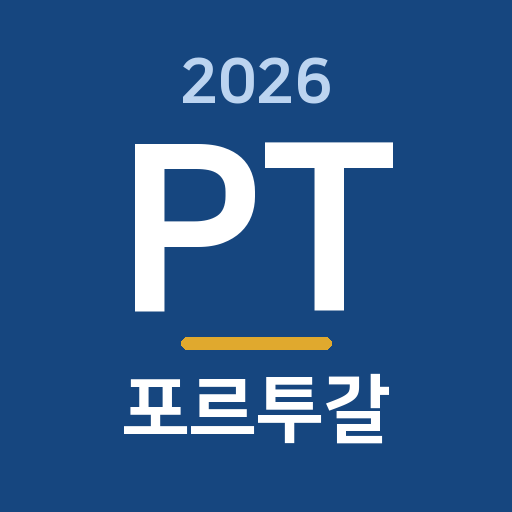
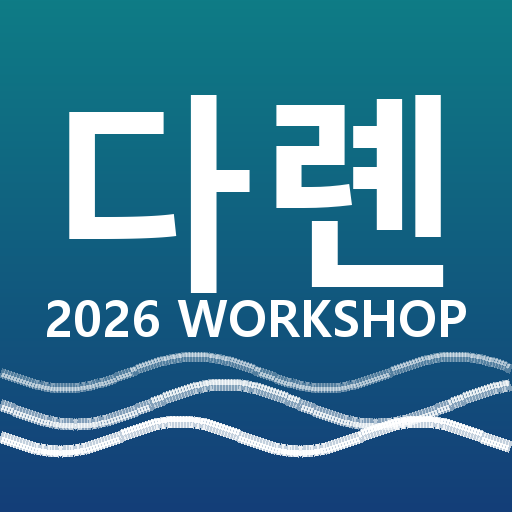
중국어 웹폰트 임베드 + 경비가계부 삭제 + 호텔/Amap 링크 + 다롄 아이콘
- Noto Sans SC 웹폰트 임베드(한자 깨짐 해결)
- 💸 경비 가계부 섹션 제거
- 호텔: 구글맵 단축링크 + Amap(高德) 링크 버튼
- 택시 메모 각 포인트에 高德(Amap) 버튼 추가
- 앱 아이콘을 다롄(다롄 2026 WORKSHOP) 버전으로 교체 · sw v3

diff --git a/index.html b/index.html
@@ -12,6 +12,9 @@
 <meta name="apple-mobile-web-app-capable" content="yes">
 <meta name="apple-mobile-web-app-status-bar-style" content="black-translucent">
 <meta name="apple-mobile-web-app-title" content="다롄 워크샵">
+<link rel="preconnect" href="https://fonts.googleapis.com">
+<link rel="preconnect" href="https://fonts.gstatic.com" crossorigin>
+<link href="https://fonts.googleapis.com/css2?family=Noto+Sans+SC:wght@400;500;700&display=swap" rel="stylesheet">
 <style>
 @font-face{font-family:'NanumSquare';src:url('fonts/NanumSquareR.woff2') format('woff2');font-weight:400;font-style:normal;font-display:swap}
 @font-face{font-family:'NanumSquare';src:url('fonts/NanumSquareB.woff2') format('woff2');font-weight:700;font-style:normal;font-display:swap}
@@ -295,6 +298,8 @@ body.dark .drhead{color:#b8a5e0}
  body,body.dark{background:#fff;padding:0;--ink:#000;--card:#fff}
 }
 .btn.copy{border-color:#cdeede;background:#EAF7F0;color:#1f9d6a}
+.btn.amap{border-color:#bfe3c4;background:#EAF6EC;color:#1f9d4d}
+body.dark .btn.amap{background:#14241a;border-color:#2a5135;color:#62cf86}
 body.dark .btn.copy{background:#14241c;border-color:#27513a;color:#5fd6a0}
 .toast{position:fixed;left:50%;bottom:24px;transform:translateX(-50%) translateY(20px);background:#1d2630;color:#fff;padding:11px 18px;border-radius:999px;font-size:13.5px;font-weight:700;opacity:0;pointer-events:none;transition:.25s;z-index:60;max-width:90%;text-align:center;box-shadow:0 6px 20px rgba(0,0,0,.25)}
 .toast.show{opacity:1;transform:translateX(-50%) translateY(0)}
@@ -317,14 +322,6 @@ body.dark .btn.copy{background:#14241c;border-color:#27513a;color:#5fd6a0}
 <div class="cv-row"><input id="eur" type="number" inputmode="decimal" value="100" min="0" aria-label="위안"> <span class="eq">元  →</span> <span class="won" id="won"></span></div>
 <div class="rate">환율 1元 = <input id="rate" type="number" inputmode="numeric" min="0"> 원 <span>· 출발 전 현재 환율로 수정하세요</span></div>
 </div></div></section>
-<section class="sec"><button class="sec-toggle"><span class="tick"></span>💸 경비 가계부<span class="sechev">▶</span></button><div class="sec-body">
-<div id="expSummary"></div>
-<div class="expform">
-<div class="ef-row"><input id="expAmt" type="number" inputmode="decimal" placeholder="금액 元" min="0"><select id="expCat" aria-label="분류"></select></div>
-<div class="ef-row"><div class="seg" id="expPayer"><button type="button" data-v="나" class="on">나</button><button type="button" data-v="일행">일행</button></div><div class="seg" id="expType"><button type="button" data-v="공동" class="on">공동</button><button type="button" data-v="개인">개인</button></div></div>
-<div class="ef-row"><input id="expMemo" type="text" placeholder="메모 (선택)" maxlength="40"><button id="expAdd" class="ef-add" type="button">+ 추가</button></div>
-</div>
-<div id="expList"></div></div></section>
 <section class="sec"><button class="sec-toggle"><span class="tick"></span>🗣 중국어 회화·메뉴<span class="sechev">▶</span></button><div class="sec-body">
 <div class="phrnote">현지에서 한마디! <b>굵은 글씨</b>가 중국어(간체), 작은 글씨가 한글 발음이에요</div>
 <div id="phrases"></div></div></section>
@@ -367,10 +364,10 @@ const flights=[
  {route:"인천 → 다롄 (ICN→DLC)",when:"6/24",sub:"중국남방항공 CZ686 · 11:25 → 11:40(현지) · 약 1시간 15분"},
  {route:"다롄 → 인천 (DLC→ICN)",when:"6/27",sub:"중국남방항공 CZ695 · 14:00 → 16:15 · 약 2시간 15분"}];
 const hotels=[
- {city:"다롄 (싱하이광장)",nights:"6/24–6/27 · 3박",name:"다롄 싱하이광장 아투어 호텔 · 大连星海广场博物馆亚朵酒店 (沙河口区星河路29号 · ☎0411-82193333)",status:"ok"}];
+ {city:"다롄 (싱하이광장)",nights:"6/24–6/27 · 3박",name:"다롄 싱하이광장 아투어 호텔 · 大连星海广场博物馆亚朵酒店 (沙河口区星河路29号 · ☎0411-82193333)",status:"ok",g:"https://maps.app.goo.gl/PCanHSG225btsBjG8",a:"https://surl.amap.com/10FjqJ01dxr"}];
 // 택시·길찾기용 중국어 장소 메모 (이름에 중국어 병기 → 기사에게 보여주기 / 📍는 지도)
 const fado=[
- {name:"🏨 호텔 · 大连星海广场博物馆亚朵酒店",meta:"沙河口区星河路29号 · ☎ 0411-82193333",m:"Atour Hotel Xinghai Square Dalian",zh:"大连星海广场博物馆亚朵酒店",b:null},
+ {name:"🏨 호텔 · 大连星海广场博物馆亚朵酒店",meta:"沙河口区星河路29号 · ☎ 0411-82193333",m:"Atour Hotel Xinghai Square Dalian",zh:"大连星海广场博物馆亚朵酒店",g:"https://maps.app.goo.gl/PCanHSG225btsBjG8",a:"https://surl.amap.com/10FjqJ01dxr",b:null},
  {name:"✈️ 공항 · 大连周水子国际机场",meta:"디디택시는 网约车(E-Hailing) 표지판 따라 · 일반 Taxi 아님 주의",m:"Dalian Zhoushuizi International Airport",zh:"大连周水子国际机场",b:null},
  {name:"🌃 성해광장 · 星海广场",meta:"싱하이광장 · 아시아 최대 광장, 야경 명소",m:"Xinghai Square Dalian",zh:"星海广场",b:null},
  {name:"🚠 케이블카 입구 · 大连森林动物园广场",meta:"다롄삼림동물원 광장(동물원 관람 X → 케이블카 승강장)",m:"Dalian Forest Zoo",zh:"大连森林动物园广场",b:null},
@@ -472,6 +469,7 @@ function routeBtn(d){
 function foodBlock(date){const fs=FOODS[date];if(!fs||!fs.length)return "";return `<div class="foodwrap"><div class="foodhead">🍴 이 근처 먹거리 <b>${fs.length}</b></div>${fs.map(f=>`<a class="foodcard" href="#p/${slug(f.m)}"><span class="fcn">${esc(f.name)}</span><span class="fcd">${esc(f.desc)}</span></a>`).join("")}</div>`;}
 function tourBlock(date){const ts=TOURS[date];if(!ts||!ts.length)return "";return `<div class="tourwrap"><div class="tourhead">🎫 추천 1일 투어·패키지 <b>${ts.length}</b></div>${ts.map(t=>`<div class="tourcard"><div class="tctop"><span class="tcn">${esc(t.name)}</span><span class="tcp">${esc(t.price)}</span></div>${t.rec?`<div class="tcrec ${t.rec.c}"><b>${esc(t.rec.t)}</b>${esc(t.rec.why)}</div>`:""}<div class="tcd">${esc(t.desc)}</div><div class="tchips">${TOURP.map(pf=>`<a class="tchip" target="_blank" rel="noopener" href="${pf.u(t.q,t.kq)}">${pf.n} ↗</a>`).join("")}</div></div>`).join("")}<div class="tournote">🔴강력추천 = 투어가 확실히 나음 · 🔵개인추천 = 직접(렌터카·도보)이 나음 · ⚪선택 = 취향 · 같은 투어도 플랫폼마다 가격이 달라요</div></div>`;}
 const mapUrl=q=>"https://www.google.com/maps/search/?api=1&query="+encodeURIComponent(q);
+const amapUrl=zh=>"https://uri.amap.com/search?keyword="+encodeURIComponent(zh)+"&city=大连";
 const revUrl=q=>"https://search.naver.com/search.naver?ssc=tab.blog.all&query="+encodeURIComponent(q+" 후기");
 const bookUrl=b=>/^https?:/.test(b)?b:"https://www.google.com/search?q="+encodeURIComponent(b);
 // 1일 투어 예약 플랫폼 검색(가격 비교)
@@ -504,8 +502,8 @@ const STORY={
 };
 const starHtml=s=>s?`<div class="stars">${"★".repeat(s)}<span class="se">${"★".repeat(5-s)}</span></div>`:"";
 document.getElementById("flights").innerHTML=flights.map(f=>`<div class="info"><div class="top"><span class="route">${f.route}</span><span class="when">${f.when}</span></div><div class="sub">${f.sub}</div></div>`).join("");
-document.getElementById("hotels").innerHTML=hotels.map(h=>`<div class="info"><div class="top"><span class="route">${h.city} <span class="pill ${h.status}">${h.status==="ok"?"예약완료":"미예약"}</span></span><span class="when">${h.nights}</span></div><div class="sub">${h.name}</div>${h.b?`<div class="acts"><a class="btn book" target="_blank" rel="noopener" href="${bookUrl(h.b)}">🔗 예약 보기</a></div>`:""}</div>`).join("");
-document.getElementById("fado").innerHTML=fado.map(f=>`<div class="fcard"><div class="fn"><a class="pname" href="#p/${slug(f.m)}">${f.name}</a></div><div class="fm">${f.meta}</div><div class="acts">${f.zh?`<button class="btn copy" onclick="copyZh(this,'${f.zh}')">📋 중국어 복사</button>`:""}<a class="btn map" target="_blank" rel="noopener" href="${mapUrl(f.m)}">📍 지도</a></div></div>`).join("");
+document.getElementById("hotels").innerHTML=hotels.map(h=>`<div class="info"><div class="top"><span class="route">${h.city} <span class="pill ${h.status}">${h.status==="ok"?"예약완료":"미예약"}</span></span><span class="when">${h.nights}</span></div><div class="sub">${h.name}</div><div class="acts">${h.g?`<a class="btn map" target="_blank" rel="noopener" href="${h.g}">📍 구글맵</a>`:""}${h.a?`<a class="btn amap" target="_blank" rel="noopener" href="${h.a}">🗺 高德 Amap</a>`:""}${h.b?`<a class="btn book" target="_blank" rel="noopener" href="${bookUrl(h.b)}">🔗 예약</a>`:""}</div></div>`).join("");
+document.getElementById("fado").innerHTML=fado.map(f=>`<div class="fcard"><div class="fn"><a class="pname" href="#p/${slug(f.m)}">${f.name}</a></div><div class="fm">${f.meta}</div><div class="acts">${f.zh?`<button class="btn copy" onclick="copyZh(this,'${f.zh}')">📋 복사</button>`:""}<a class="btn map" target="_blank" rel="noopener" href="${f.g||mapUrl(f.m)}">📍 구글</a><a class="btn amap" target="_blank" rel="noopener" href="${f.a||amapUrl(f.zh)}">🗺 高德</a></div></div>`).join("");
 function esc(s){return(s||"").replace(/&/g,"&amp;").replace(/</g,"&lt;").replace(/>/g,"&gt;").replace(/"/g,"&quot;");}
 function render(){
  document.getElementById("days").innerHTML=state.map((d,i)=>`<div class="day${open.has(i)?" open":""}${i===TODAY?" today":""}">
@@ -721,33 +719,6 @@ function renderPack(){
 }
 function togglePack(id){packed[id]=!packed[id];savePacked();}
 
-
-/* ===== 경비 가계부 ===== */
-const EKEY="dl_exp_v1";
-const ECATS=[["식비","🍽"],["숙소","🏨"],["교통","🚕"],["입장·관광","🎫"],["쇼핑·기념품","🛍"],["기타","🧾"]];
-let exps=(()=>{try{return JSON.parse(localStorage.getItem(EKEY))||[];}catch(e){return[];}})();
-let ePayer="나",eType="공동",eid=exps.reduce((m,e)=>Math.max(m,e.id||0),0);
-document.getElementById("expCat").innerHTML=ECATS.map(c=>`<option value="${c[0]}">${c[1]} ${c[0]}</option>`).join("");
-function segInit(id,set){const seg=document.getElementById(id);seg.querySelectorAll("button").forEach(b=>b.onclick=()=>{seg.querySelectorAll("button").forEach(x=>x.classList.remove("on"));b.classList.add("on");set(b.dataset.v);});}
-segInit("expPayer",v=>ePayer=v);segInit("expType",v=>eType=v);
-function saveExps(){try{localStorage.setItem(EKEY,JSON.stringify(exps));}catch(e){}}
-function catIcon(c){const f=ECATS.find(x=>x[0]===c);return f?f[1]:"🧾";}
-document.getElementById("expAdd").onclick=()=>{const el=document.getElementById("expAmt"),amt=parseFloat(el.value);if(!amt||amt<=0){el.focus();return;}exps.unshift({id:++eid,a:amt,c:document.getElementById("expCat").value,p:ePayer,t:eType,m:document.getElementById("expMemo").value.trim()});saveExps();el.value="";document.getElementById("expMemo").value="";renderExp();};
-function delExp(id){exps=exps.filter(e=>e.id!==id);saveExps();renderExp();}
-function renderExp(){
- const list=document.getElementById("expList"),sum=document.getElementById("expSummary");
- const total=exps.reduce((s,e)=>s+e.a,0);
- const shared=exps.filter(e=>e.t==="공동").reduce((s,e)=>s+e.a,0);
- const eunShared=exps.filter(e=>e.t==="공동"&&e.p==="나").reduce((s,e)=>s+e.a,0);
- const eunPaid=exps.filter(e=>e.p==="나").reduce((s,e)=>s+e.a,0),chaPaid=total-eunPaid;
- const bal=eunShared-shared/2;
- let settle="아직 정산할 공동지출이 없어요";
- if(Math.abs(bal)>=0.5)settle=bal>0?`<b>일행 → 나 ¥${Math.round(bal).toLocaleString()}</b> 주면 공동비용 5:5 정산 완료`:`<b>나 → 일행 ¥${Math.round(-bal).toLocaleString()}</b> 주면 공동비용 5:5 정산 완료`;
- sum.innerHTML=`<div class="exp-sum"><div class="es-top"><span class="es-tot">¥${total.toLocaleString(undefined,{maximumFractionDigits:0})}</span><span class="es-sub">₩${Math.round(total*(+rateEl.value||0)).toLocaleString("ko-KR")}</span></div><div class="es-sub">나 ¥${Math.round(eunPaid).toLocaleString()} · 일행 ¥${Math.round(chaPaid).toLocaleString()} 결제</div><div class="es-set">⚖️ ${settle}</div></div>`;
- if(!exps.length){list.innerHTML=`<div class="exp-empty">아직 입력한 지출이 없어요. 위에서 금액을 추가해보세요!</div>`;return;}
- list.innerHTML=exps.map(e=>`<div class="exprow"><span class="ex-c">${catIcon(e.c)}</span><span class="ex-b"><span class="ex-m">${esc(e.m||e.c)}</span> <span class="ex-meta">${e.p}·${e.t}</span></span><span class="ex-a">¥${e.a.toLocaleString(undefined,{maximumFractionDigits:2})}</span><button class="ex-del" onclick="delExp(${e.id})" aria-label="삭제">✕</button></div>`).join("");
-}
-renderExp();
 
 /* ===== 중국어 회화·메뉴 ===== */
 const PHRASES=[

diff --git a/sw.js b/sw.js
@@ -1,5 +1,5 @@
 // 다롄 워크샵 일정 · 오프라인 캐시
-const CACHE = "dl-trip-v2";
+const CACHE = "dl-trip-v3";
 const IMGCACHE = "dl-img-v1";
 const ASSETS = [
   "./",